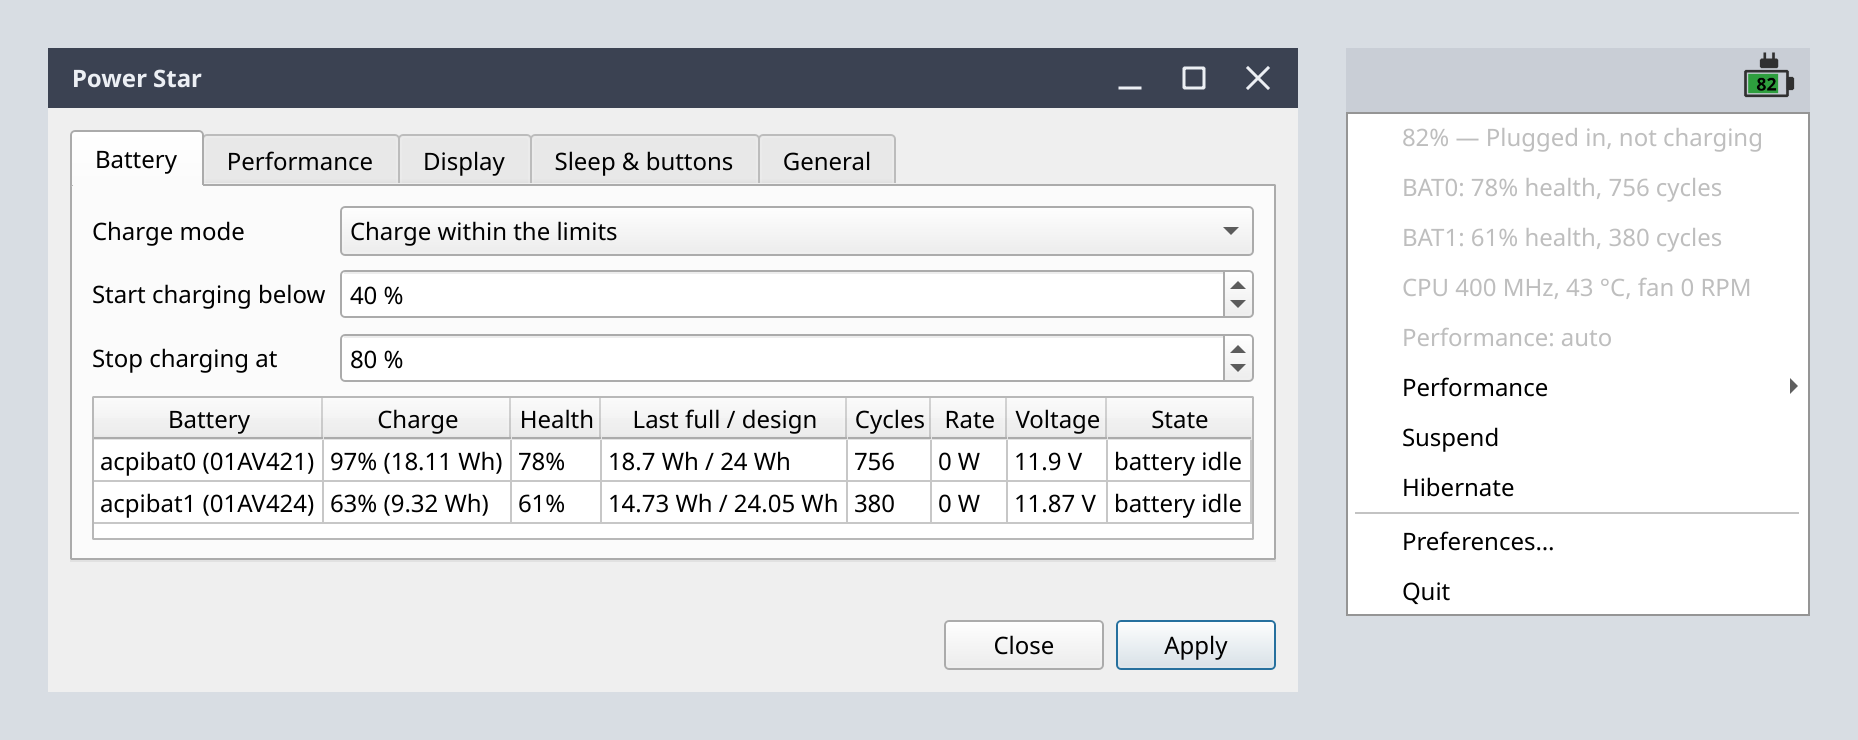
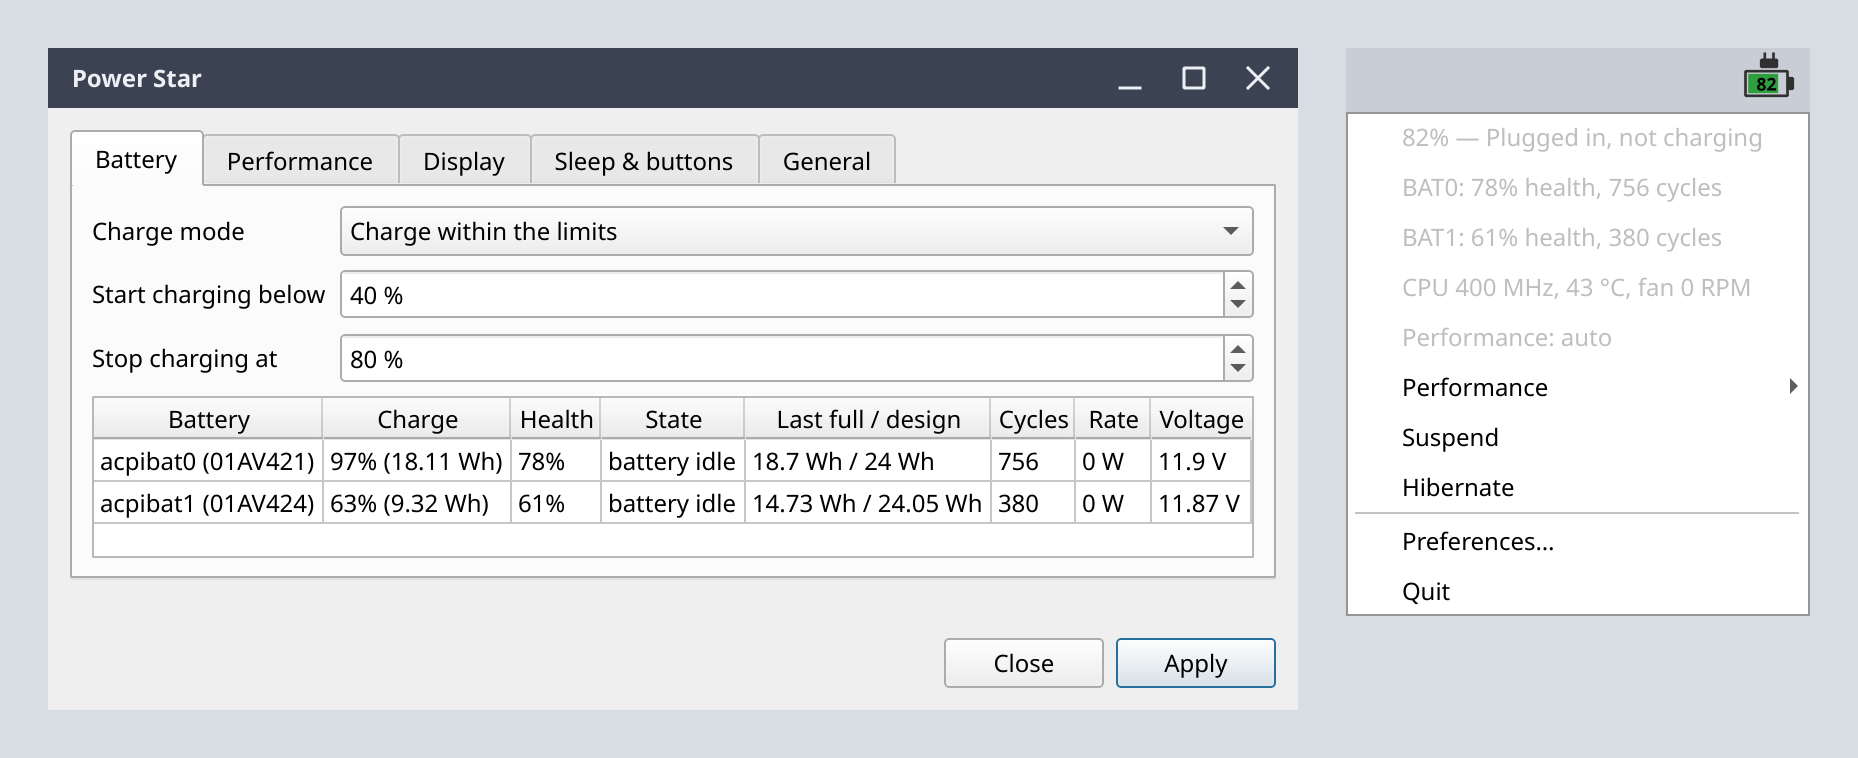
Battery table: State after Health; scroll sideways when narrow without covering a row

diff --git a/powerstar/ui/prefs.py b/powerstar/ui/prefs.py
@@ -43,7 +43,7 @@ def confirm_box(parent, lines: list[str]) -> bool:
     return QMessageBox.question(parent, "Confirm changes", text) == QMessageBox.StandardButton.Yes
 
 
-BATTERY_COLUMNS = ["Battery", "Charge", "Health", "Last full / design", "Cycles", "Rate", "Voltage", "State"]
+BATTERY_COLUMNS = ["Battery", "Charge", "Health", "State", "Last full / design", "Cycles", "Rate", "Voltage"]
 
 
 def split_policy(policy: str) -> tuple[str, str]:
@@ -130,9 +130,9 @@ class Preferences(QDialog):
         self.battery_table.setFocusPolicy(Qt.FocusPolicy.NoFocus)
         self.battery_table.horizontalHeader().setSectionResizeMode(QHeaderView.ResizeMode.ResizeToContents)
         self.battery_table.verticalHeader().setSectionResizeMode(QHeaderView.ResizeMode.ResizeToContents)
-        # size to the contents: the whole table is always visible, never scrolled
+        # size to the contents; scroll sideways only when the window is narrower than the table
         self.battery_table.setSizeAdjustPolicy(QAbstractScrollArea.SizeAdjustPolicy.AdjustToContents)
-        self.battery_table.setHorizontalScrollBarPolicy(Qt.ScrollBarPolicy.ScrollBarAlwaysOff)
+        self.battery_table.setHorizontalScrollBarPolicy(Qt.ScrollBarPolicy.ScrollBarAsNeeded)
         self.battery_table.setVerticalScrollBarPolicy(Qt.ScrollBarPolicy.ScrollBarAlwaysOff)
         form.addRow(self.battery_table)
         self.show_batteries(self.state)
@@ -145,14 +145,18 @@ class Preferences(QDialog):
         pct = lambda v: "?" if v is None else f"{v}%"
         rows = [
             [f"{b.name} ({b.model})" if b.model else b.name, f"{pct(b.charge_percent)} ({fmt(b.remaining_wh, 'Wh')})",
-             pct(b.health_percent), f"{fmt(b.last_full_wh, 'Wh')} / {fmt(b.design_wh, 'Wh')}", fmt(b.cycles, ""),
-             fmt(b.rate_w, "W"), fmt(b.voltage, "V"), b.status or "?"]
+             pct(b.health_percent), b.status or "?", f"{fmt(b.last_full_wh, 'Wh')} / {fmt(b.design_wh, 'Wh')}",
+             fmt(b.cycles, ""), fmt(b.rate_w, "W"), fmt(b.voltage, "V")]
             for b in state.sensors.batteries
         ] or [["No battery"] + [""] * (len(BATTERY_COLUMNS) - 1)]  # fmt: skip
         table.setRowCount(len(rows))
         for r, cells in enumerate(rows):
             for c, text in enumerate(cells):
                 table.setItem(r, c, QTableWidgetItem(text))
+        table.resizeRowsToContents()
+        # room for every row plus the sideways scrollbar, so the scrollbar never covers a row
+        table.setMinimumHeight(table.horizontalHeader().sizeHint().height() + sum(table.rowHeight(r) for r in range(len(rows)))
+                               + table.horizontalScrollBar().sizeHint().height() + 2 * table.frameWidth())
 
     def _performance_tab(self) -> QWidget:
         tab = QWidget()

diff --git a/tests/test_ui_smoke.py b/tests/test_ui_smoke.py
@@ -89,6 +89,7 @@ class PreferencesTest(unittest.TestCase):
         p = self.prefs()
         cell = lambda: p.battery_table.item(0, 1).text()
         self.assertEqual(p.battery_table.item(0, 0).text(), "acpibat0 (01AV421)")
+        self.assertEqual(p.battery_table.item(0, 3).text(), "battery idle")  # State right after Health
         self.assertEqual(cell(), "97% (18.11 Wh)")
         state = read_state(make_sys())
         state.sensors.batteries[0].remaining_wh = 9.35
